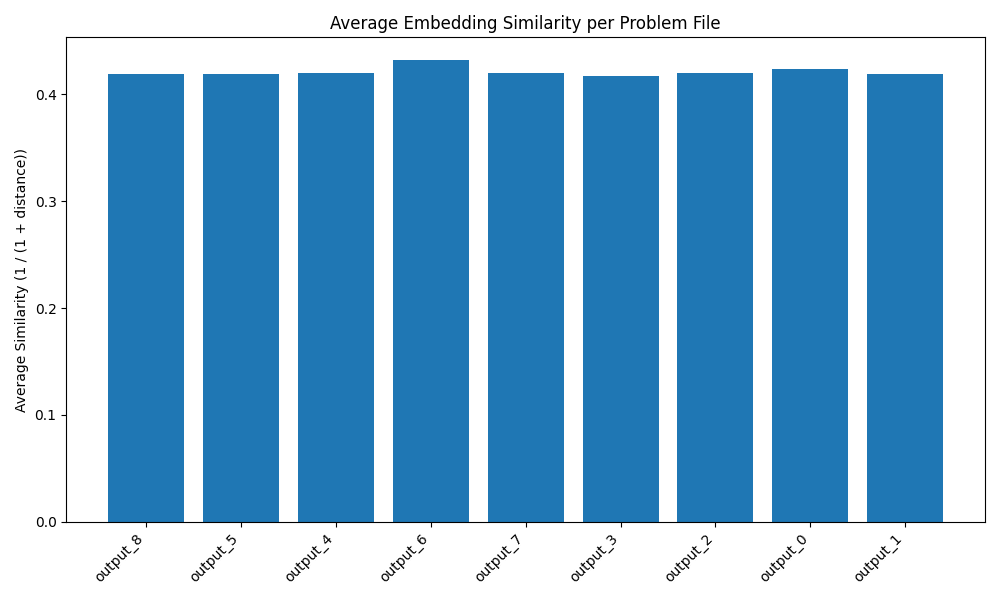
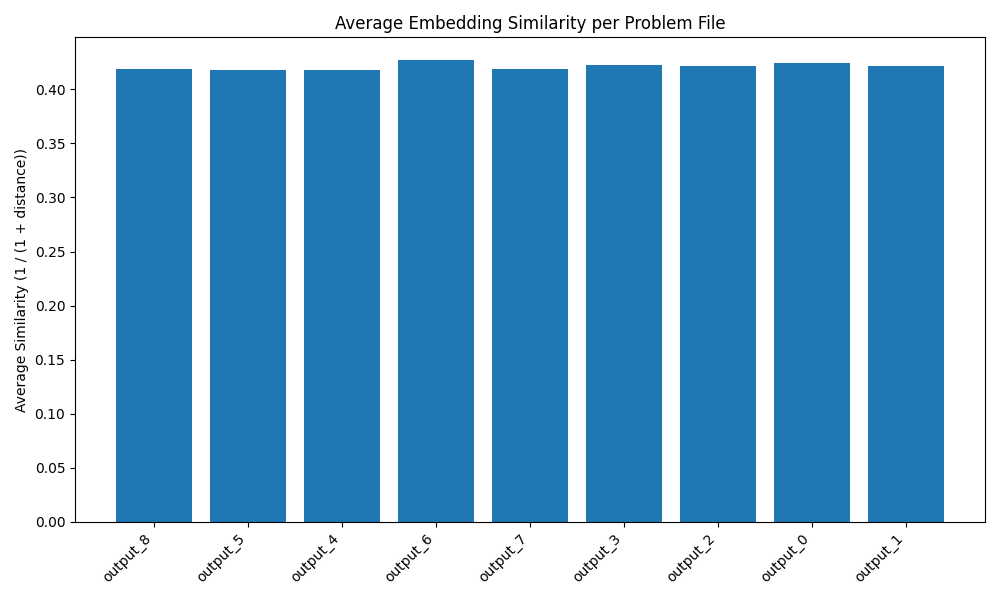
Fixed error in average_similarities generation

diff --git a/create_plots.py b/create_plots.py
@@ -96,7 +96,7 @@ if __name__ == "__main__":
             counter += 1
 
         # Store average similarity
-        avg_sim = float(np.mean(similarities))
+        avg_sim = float(np.mean(all_similarities))
         avg_similarities[base_name] = avg_sim
 
     # Generate final bar chart of average similarities
